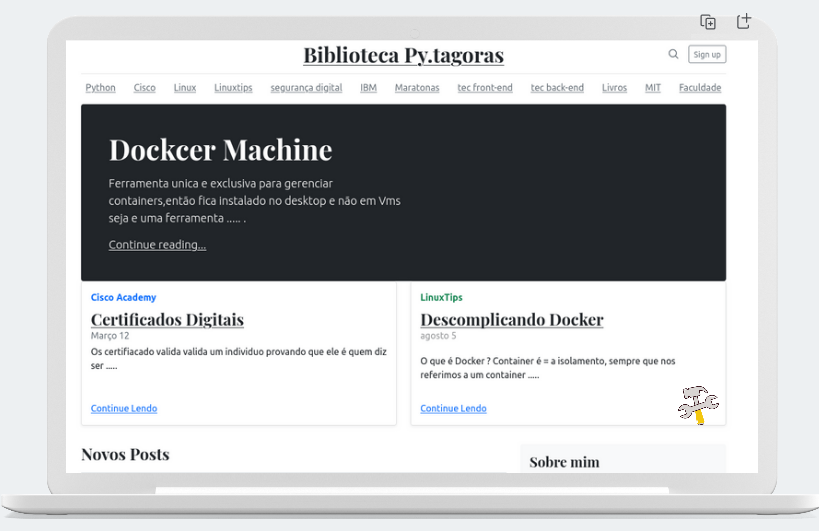
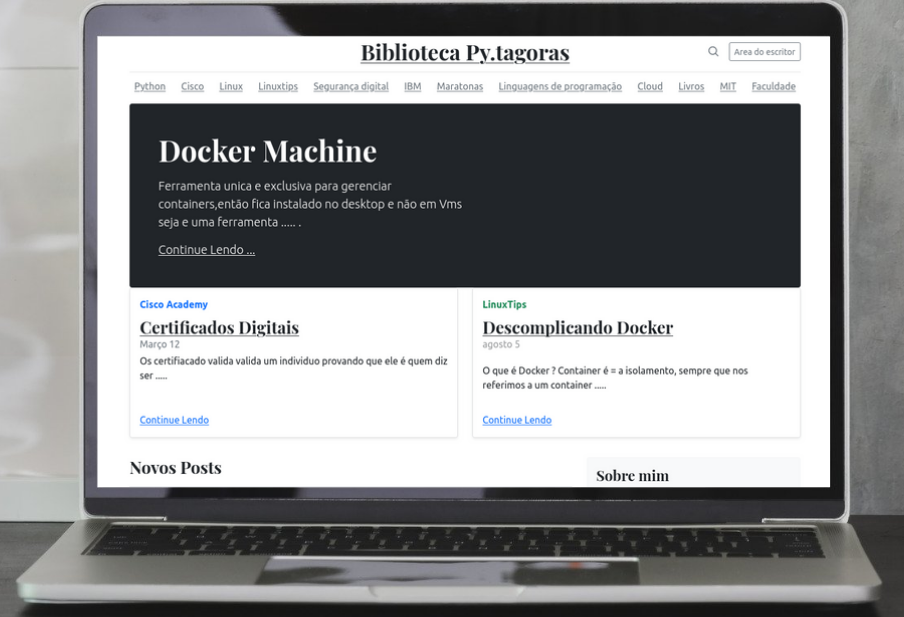
subindo mudanças no layout

diff --git a/son_blog/templates/layout.html b/son_blog/templates/layout.html
@@ -1,5 +1,5 @@
 <!doctype html>
-<html lang="en">
+<html lang="pt-br">
   <head>
     <meta charset="utf-8">
     <meta name="viewport" content="width=device-width, initial-scale=1, shrink-to-fit=no">
@@ -162,7 +162,7 @@
             <a class="text-muted" href="#">
               <svg xmlns="http://www.w3.org/2000/svg" width="20" height="20" viewBox="0 0 24 24" fill="none" stroke="currentColor" stroke-width="2" stroke-linecap="round" stroke-linejoin="round" class="mx-3"><circle cx="10.5" cy="10.5" r="7.5"></circle><line x1="21" y1="21" x2="15.8" y2="15.8"></line></svg>
             </a>
-            <a class="btn btn-sm btn-outline-secondary" href="">Sign up</a>
+            <a class="btn btn-sm btn-outline-secondary" href="">Area do escritor</a>
           </div>
         </div>
       </header>
@@ -173,11 +173,11 @@
           <a class="p-2 text-muted" href="#">Cisco</a>
           <a class="p-2 text-muted" href="#">Linux</a>
           <a class="p-2 text-muted" href="#">Linuxtips</a>
-          <a class="p-2 text-muted" href="#">segurança digital</a>
+          <a class="p-2 text-muted" href="#">Segurança digital</a>
           <a class="p-2 text-muted" href="#">IBM</a>
           <a class="p-2 text-muted" href="#">Maratonas</a>
-          <a class="p-2 text-muted" href="#">tec front-end</a>
-          <a class="p-2 text-muted" href="#">tec back-end</a>
+          <a class="p-2 text-muted" href="#">Linguagens de programação</a>
+          <a class="p-2 text-muted" href="#">Cloud</a>
           <a class="p-2 text-muted" href="#">Livros</a>
           <a class="p-2 text-muted" href="#">MIT</a>
           <a class="p-2 text-muted" href="#">Faculdade</a>
@@ -193,7 +193,7 @@
         <aside class="col-md-4 blog-sidebar">
           <div class="p-3 mb-3 bg-light rounded">
             <h4 class="font-italic">Sobre mim</h4>
-            <p class="mb-0">Esta é  <em> minha </em> Tentativa de registrar minha passagem nesse mundo que possui tantas hisotiras, dentre todas elas essa a tentativa de registrar a minha.</p>
+            <p class="mb-0">Esta é  <em> minha </em> Tentativa de registrar minha passagem nesse mundo que possui tantas historas, dentre todas elas ,essa a tentativa de registrar a minha.</p>
           </div>
 
           <div class="p-3">
@@ -211,7 +211,7 @@
             <ol class="list-unstyled">
               <li><a href="https://github.com/wallaceleonel">GitHub</a></li>
               <li><a href="#">Twitter</a></li>
-              <li><a href="https://github.com/wallaceleonel">Linkedin</a></li>
+              <li><a href="https://www.linkedin.com/in/wallace-leonel-93b9531b1/">Linkedin</a></li>
             </ol>
           </div>
         </aside><!-- /.blog-sidebar -->
@@ -221,9 +221,9 @@
     </main><!-- /.container -->
 
     <footer class="blog-footer">
-      <p>Blog template built for <a href="https://getbootstrap.com/">Bootstrap</a> by <a href="https://twitter.com/mdo">@mdo</a>.</p>
+      <p>Desenvolvido por Wallace Leonel  <a href="https://github.com/wallaceleonel"> Girhub </a> by <a href=https://twitter.com/wallaceleonel">@wallaceleonel</a>.</p>
       <p>
-        <a href="#">Back to top</a>
+        <a href="#">De volta ao Topo</a>
       </p>
     </footer>
 

diff --git a/son_blog/templates/home.html b/son_blog/templates/home.html
@@ -3,9 +3,9 @@
 {% block sub_header %}
  <div class="jumbotron p-3 p-md-5 text-white rounded bg-dark">
         <div class="col-md-6 px-0">
-          <h1 class="display-4 font-italic">Dockcer Machine   </h1>
+          <h1 class="display-4 font-italic">Docker Machine   </h1>
           <p class="lead my-3">Ferramenta unica e exclusiva para gerenciar containers,então fica instalado no desktop e não em Vms  seja e uma ferramenta ..... .</p>
-          <p class="lead mb-0"><a href="#" class="text-white font-weight-bold">Continue reading...</a></p>
+          <p class="lead mb-0"><a href="#" class="text-white font-weight-bold">Continue Lendo ...</a></p>
         </div>
       </div>
 
@@ -44,7 +44,7 @@
 {% endblock %}
 {% block content %}
 <h3 class="pb-3 mb-4 font-italic border-bottom">
-                Novos Posts 
+                Novos Posts
         </h3>
          {% for post in posts %}
         <div class="blog-post">

diff --git a/son_blog/templates/post.html b/son_blog/templates/post.html
@@ -1,6 +1,6 @@
 {% extends 'layout.html' %}
 
-{
+
 {% block content %}
         <div class="blog-post">
             <h2 class="blog-post-title">
